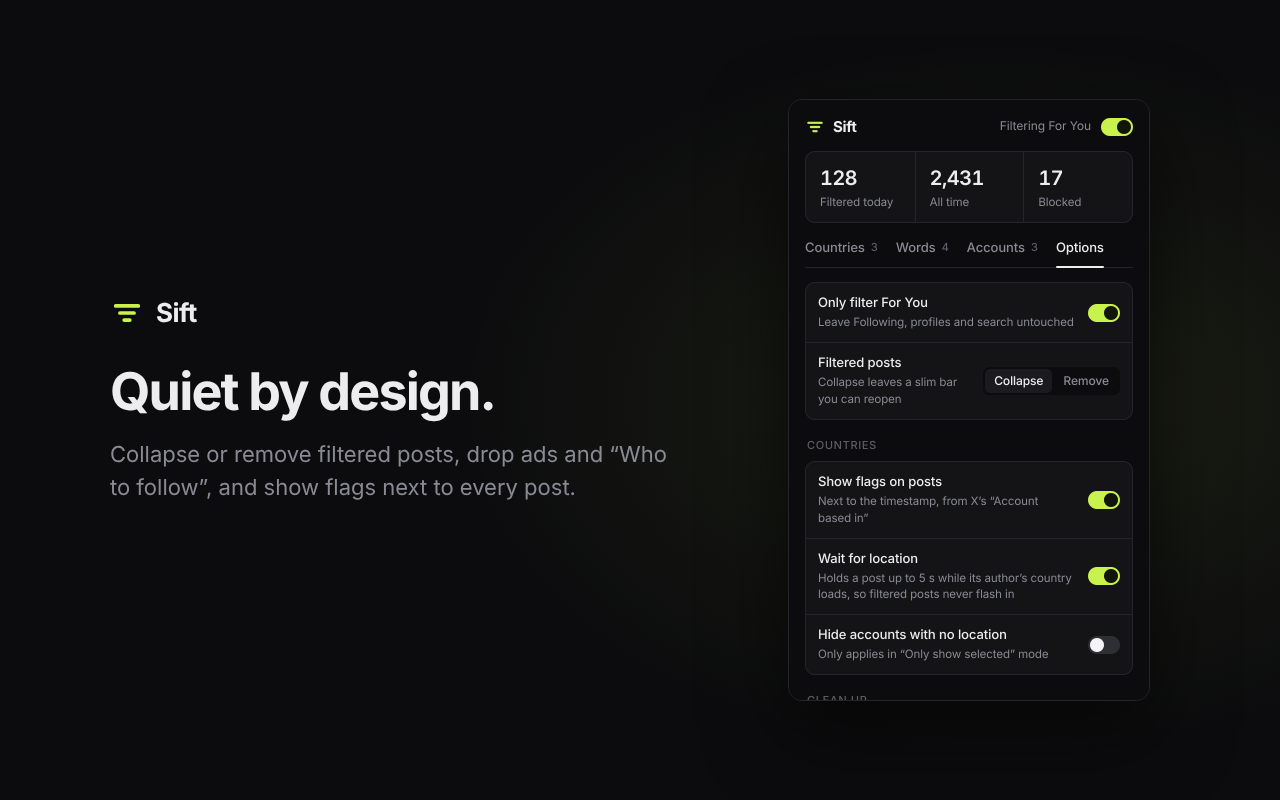
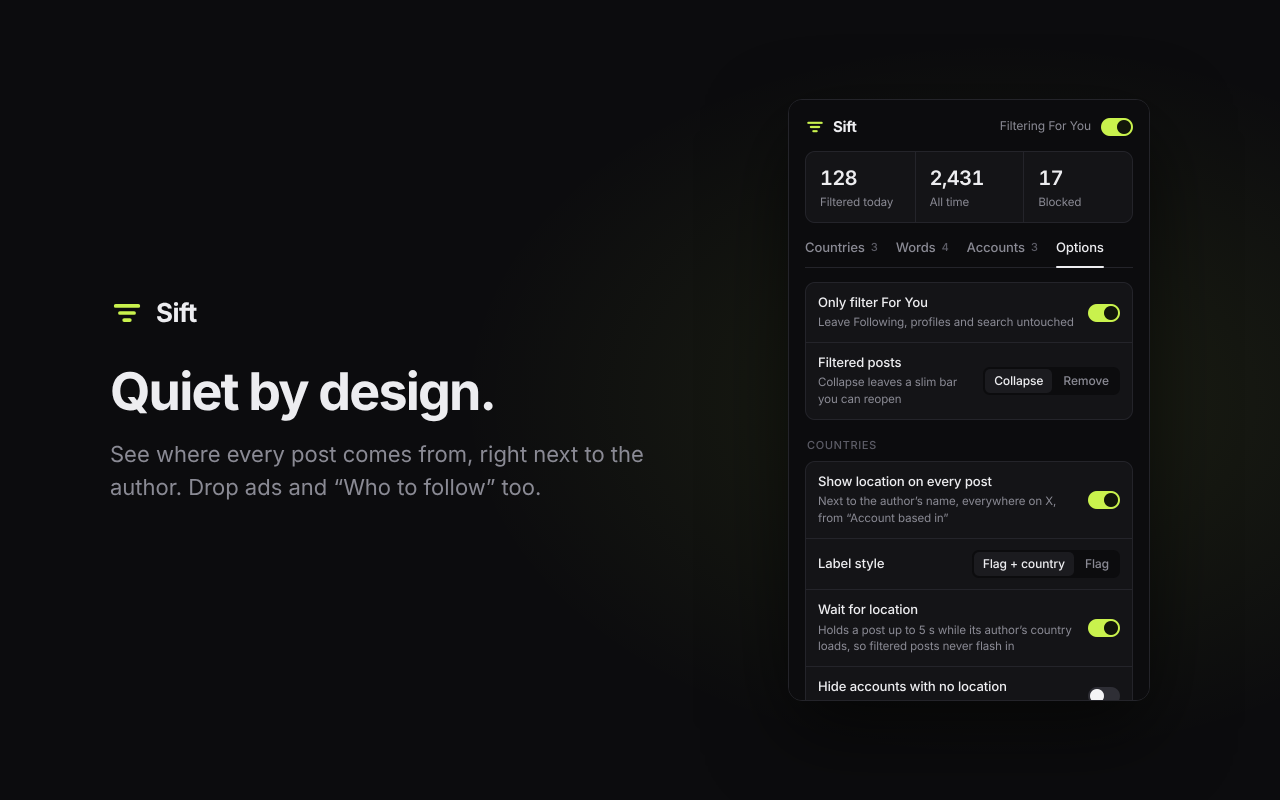
Show account location next to every author's name
Replaces the timestamp flag with a "🇯🇵 Japan" label after the display
name on every post across X (quoted posts included), independent of
where filtering is active. New "Label style" option: flag + country
or flag only.

Claude-Session: https://claude.ai/code/session_01QWNfnbUWv72dj1cqruosBs

diff --git a/content.js b/content.js
@@ -134,6 +134,7 @@
     clearTimeout(geoSaveTimer);
     geoSaveTimer = setTimeout(saveGeo, 2500);
     refreshHandle(handle);
+    schedule();
   }
 
   async function saveGeo() {
@@ -158,12 +159,20 @@
     });
   }
 
-  function requestGeo(handle) {
-    if (geoQueued.has(handle) || geoGet(handle)) return;
+  function requestGeo(handle, hold = true) {
+    if (geoGet(handle)) return;
+    if (hold && !geoHoldUntil.has(handle) && geoQueued.has(handle)) {
+      // already queued for a label only; start the hold timer now
+      geoHoldUntil.set(handle, Date.now() + GEO_HOLD_MS);
+      setTimeout(() => releaseHold(handle), GEO_HOLD_MS + 50);
+    }
+    if (geoQueued.has(handle)) return;
     geoQueued.add(handle);
     geoQueue.push(handle);
-    geoHoldUntil.set(handle, Date.now() + GEO_HOLD_MS);
-    setTimeout(() => releaseHold(handle), GEO_HOLD_MS + 50);
+    if (hold) {
+      geoHoldUntil.set(handle, Date.now() + GEO_HOLD_MS);
+      setTimeout(() => releaseHold(handle), GEO_HOLD_MS + 50);
+    }
     pumpGeo();
   }
 
@@ -217,7 +226,8 @@
       const handle = geoQueue.pop();
       if (!handle) break;
       if (!geoQueued.has(handle) || geoGet(handle)) { geoQueued.delete(handle); continue; }
-      if (!document.querySelector(`article[data-sift-h="${CSS.escape(handle)}"]`)) {
+      const h = CSS.escape(handle);
+      if (!document.querySelector(`article[data-sift-h="${h}"], [data-sift-lh="${h}"]`)) {
         geoQueued.delete(handle);   // scrolled away; will be re-queued if seen again
         continue;
       }
@@ -402,21 +412,52 @@
     return /^[A-Z]{2}$/.test(key) ? siftFlag(key) : "";
   }
 
-  function addFlag(article, handle) {
-    if (!S.showFlags || !handle) return;
-    const g = geoGet(handle);
-    if (!g || !g.k) return;
-    const time = article.querySelector('[data-testid="User-Name"] a[href*="/status/"] time');
-    const anchor = time?.parentElement;
-    if (!anchor || anchor.nextElementSibling?.classList.contains("sift-flag")) return;
+  /* ---------------- location labels ---------------- */
+
+  function buildLabel(handle, g) {
     const el = document.createElement("span");
-    el.className = "sift-flag";
-    const label = siftGeoLabel(g.k, g.n);
-    el.title = `Account based in ${label}`;
+    el.className = "sift-loc";
+    el.dataset.h = handle;
+    el.dataset.k = g.k;
+    const name = siftGeoLabel(g.k, g.n);
+    const cont = siftContinentOf(g.k);
+    el.title = `Account based in ${name}${cont && !g.k.startsWith("r:") ? ` · ${siftContinentName(cont)}` : ""}`;
     const f = flagHTML(g.k);
-    if (f) el.textContent = f;
-    else { el.classList.add("sift-flag-region"); el.textContent = label; }
-    anchor.after(el);
+    if (f) {
+      const fl = document.createElement("span");
+      fl.className = "sift-loc-flag";
+      fl.textContent = f;
+      el.append(fl);
+    }
+    if (!f || S.flagStyle !== "flag") {
+      const t = document.createElement("span");
+      t.className = "sift-loc-name";
+      t.textContent = name;
+      el.append(t);
+    }
+    return el;
+  }
+
+  // Adds "🇯🇵 Japan" after the author's name on every post on the page (quoted posts too).
+  function labelAll() {
+    document.querySelectorAll('article [data-testid="User-Name"]').forEach(un => {
+      const link = un.querySelector('a[href^="/"]');
+      if (!link) return;
+      const handle = siftNormHandle(link.getAttribute("href").split("/")[1]);
+      if (!handle) return;
+      const row = un.firstElementChild || un;
+      const existing = un.querySelector(".sift-loc");
+      if (un.dataset.siftLh !== handle) {
+        existing && existing.remove();
+        un.dataset.siftLh = handle;
+      }
+      const g = geoGet(handle);
+      if (!g) { requestGeo(handle, false); return; }
+      if (!g.k) { existing && existing.remove(); return; }
+      if (existing && existing.dataset.h === handle && existing.dataset.k === g.k) return;
+      existing && existing.remove();
+      row.append(buildLabel(handle, g));
+    });
   }
 
   function apply(article, hit, statusId) {
@@ -471,8 +512,6 @@
     article.dataset.sift = id;
     if (handle) article.dataset.siftH = handle;
 
-    if (handle && S.showFlags && !geoGet(handle)) requestGeo(handle);
-    addFlag(article, handle);
 
     if (article.dataset.siftRevealed) return;
     const hit = evaluate(article, handle);
@@ -488,7 +527,7 @@
   function refreshHandle(handle) {
     if (!lastActive) return;
     document.querySelectorAll(`article[data-sift-h="${CSS.escape(handle)}"]`).forEach(a => {
-      if (a.dataset.siftRevealed) { addFlag(a, handle); return; }
+      if (a.dataset.siftRevealed) return;
       unapplyArticle(a);
       processArticle(a);
     });
@@ -520,7 +559,6 @@
     article.classList.remove("sift-hidden");
     const prev = article.previousElementSibling;
     if (prev && prev.classList.contains("sift-bar")) prev.remove();
-    article.querySelectorAll(".sift-flag").forEach(f => f.remove());
     const cell = cellOf(article);
     cell && cell.classList.remove("sift-gone", "sift-wait");
     delete article.dataset.sift;
@@ -528,7 +566,7 @@
   }
 
   function resetAll() {
-    document.querySelectorAll(".sift-bar, .sift-flag").forEach(b => b.remove());
+    document.querySelectorAll(".sift-bar").forEach(b => b.remove());
     document.querySelectorAll(".sift-hidden").forEach(el => el.classList.remove("sift-hidden"));
     document.querySelectorAll(".sift-gone, .sift-wait").forEach(el => el.classList.remove("sift-gone", "sift-wait"));
     document.querySelectorAll("[data-sift],[data-sift-w],[data-sift-revealed],[data-sift-wait]").forEach(el => {
@@ -545,8 +583,9 @@
     if (active !== lastActive) {
       resetAll();
       lastActive = active;
-      if (active) syncTheme();
     }
+    syncTheme();
+    if (S.enabled && S.showFlags) labelAll();
     if (!active) return;
     scanTweets();
     scanWhoToFollow();
@@ -675,6 +714,7 @@
       S = { ...SIFT_DEFAULTS, ...changes.sift.newValue };
       compile();
       resetAll();
+      document.querySelectorAll(".sift-loc").forEach(l => l.remove());
       lastActive = null;
       schedule();
     });

diff --git a/popup.html b/popup.html
@@ -142,11 +142,18 @@
       <div class="group">
         <label class="row">
           <span class="row-text">
-            <span class="row-title">Show flags on posts</span>
-            <span class="row-sub">Next to the timestamp, from X’s “Account based in”</span>
+            <span class="row-title">Show location on every post</span>
+            <span class="row-sub">Next to the author’s name, everywhere on X, from “Account based in”</span>
           </span>
           <span class="switch"><input type="checkbox" data-opt="showFlags"><span class="track"><span class="thumb"></span></span></span>
         </label>
+        <div class="row" id="flagStyleRow">
+          <span class="row-text"><span class="row-title">Label style</span></span>
+          <div class="seg" id="flagStyleSeg">
+            <button type="button" data-v="full">Flag + country</button>
+            <button type="button" data-v="flag">Flag</button>
+          </div>
+        </div>
         <label class="row">
           <span class="row-text">
             <span class="row-title">Wait for location</span>

diff --git a/content.css b/content.css
@@ -120,22 +120,27 @@
   font-family: "Sift Flags", "Inter", "Segoe UI Variable Text", "Segoe UI", -apple-system, system-ui, sans-serif;
 }
 
-.sift-flag {
+.sift-loc {
   display: inline-flex;
   align-items: center;
+  gap: 4px;
+  flex: none;
   margin-left: 6px;
-  font-family: "Sift Flags", "Segoe UI Emoji", "Apple Color Emoji", sans-serif;
-  font-size: 15px;
-  line-height: 1;
+  color: var(--sift-muted);
+  font: 400 14px/1 "Sift Flags", "Inter", "Segoe UI Variable Text", "Segoe UI", -apple-system, system-ui, sans-serif;
+  white-space: nowrap;
   vertical-align: middle;
   cursor: default;
   user-select: none;
 }
 
-.sift-flag-region {
-  padding: 1px 6px;
-  border-radius: 999px;
-  font: 500 11px/1.4 "Inter", "Segoe UI Variable Text", "Segoe UI", -apple-system, system-ui, sans-serif;
-  color: var(--sift-muted);
-  background: var(--sift-btn);
+.sift-loc-flag {
+  font-family: "Sift Flags", "Segoe UI Emoji", "Apple Color Emoji", sans-serif;
+  font-size: 15px;
+  line-height: 1;
+}
+
+.sift-loc-name {
+  font-size: 13.5px;
+  letter-spacing: -0.005em;
 }

diff --git a/popup.js b/popup.js
@@ -423,6 +423,8 @@
   function renderOptions() {
     $$("[data-opt]").forEach(el => (el.checked = !!S[el.dataset.opt]));
     $$("#modeSeg button").forEach(b => b.setAttribute("aria-pressed", b.dataset.v === S.mode));
+    $$("#flagStyleSeg button").forEach(b => b.setAttribute("aria-pressed", b.dataset.v === S.flagStyle));
+    $("#flagStyleRow").classList.toggle("disabled", !S.showFlags);
   }
 
   $$("[data-opt]").forEach(el =>
@@ -430,8 +432,17 @@
       S[el.dataset.opt] = el.checked;
       save();
       renderStatus();
+      renderOptions();
     })
   );
+
+  $("#flagStyleSeg").addEventListener("click", e => {
+    const b = e.target.closest("button");
+    if (!b) return;
+    S.flagStyle = b.dataset.v;
+    save();
+    renderOptions();
+  });
 
   $("#modeSeg").addEventListener("click", e => {
     const b = e.target.closest("button");

diff --git a/shared.js b/shared.js
@@ -12,7 +12,8 @@ const SIFT_DEFAULTS = {
   users: [],                 // [{ handle, action: "hide" | "block" | "allow" }]
   countries: [],             // [{ key: "JP" | "r:europe", name, action: "hide" | "block" }]
   countryMode: "hide",       // "hide" = hide selected, "only" = only show selected
-  showFlags: true,
+  showFlags: true,           // location label next to every author name
+  flagStyle: "full",        // "full" = flag + country, "flag" = flag only
   holdForCountry: true,
   hideUnknownCountry: false
 };

diff --git a/popup.css b/popup.css
@@ -331,3 +331,5 @@ body.only .pick[data-for="country"] { display: none; }
 .cont.block { color: var(--danger); border-color: rgba(255, 107, 94, .45); }
 .cont.show { color: var(--accent); border-color: rgba(201, 242, 77, .45); }
 .term .kind { margin-left: 8px; color: var(--faint); font-size: 11.5px; }
+
+.row.disabled { opacity: .45; pointer-events: none; }

diff --git a/README.md b/README.md
@@ -14,7 +14,7 @@
 
 - **Country filtering.** X shows where an account is based in its *About this account* panel. Sift reads that for each author in your feed. Then it either hides or blocks posts from the countries, regions or whole continents you pick, or shows only the ones you allow.
 - **Continents.** One click covers Africa, Asia, Europe, North America, South America or Oceania, including the regions X reports, like "West Asia". A rule for a specific country overrides its continent.
-- **Flags on posts.** A small flag next to each post's timestamp. It renders properly on Windows too.
+- **Location on every post.** Each author's flag and country appear right after their name, everywhere on X, including quoted posts. You can switch to flag only. Flags render properly on Windows too.
 - **Word rules.** Words, phrases or `/regex/`. Matching is whole-word, so `crypto` won't catch "cryptography".
 - **Account rules.** Hide, block or always allow specific accounts. You can also right-click any profile link on X.
 - **Hide or block.** Any rule can just hide posts, or block the author on X for you. Auto-block is off until you turn it on.

diff --git a/store/LISTING.md b/store/LISTING.md
@@ -20,7 +20,7 @@ Filter your X For You feed by country, continent, words and accounts. Hide posts
 Sift cleans up your X (Twitter) For You feed.
 
 FILTER BY COUNTRY OR CONTINENT
-X shows where an account is based in its "About this account" panel. Sift reads that for each author in your feed. Then it either hides posts from the countries, regions or whole continents you pick, or shows only the ones you allow. A small flag next to each post shows where it's from.
+X shows where an account is based in its "About this account" panel. Sift reads that for each author in your feed. Then it either hides posts from the countries, regions or whole continents you pick, or shows only the ones you allow. Every post shows where it's coming from, with a flag and country right next to the author's name.
 
 FILTER BY WORDS AND ACCOUNTS
 • Words, phrases or /regex/, with whole-word matching
